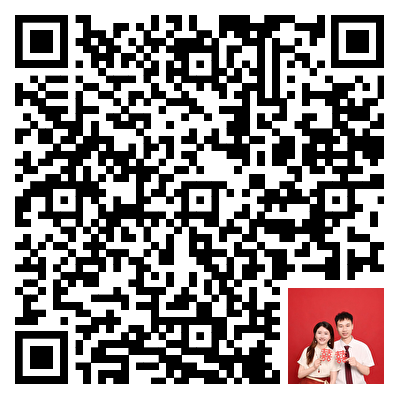
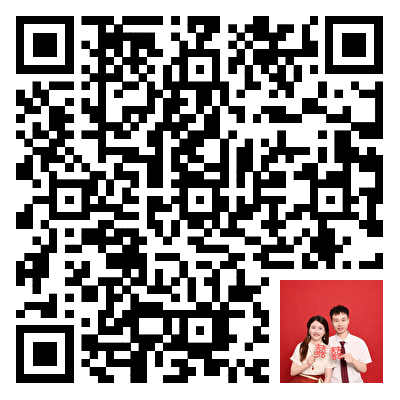
上传记录

diff --git a/yuanhui/zengsheng/project.md b/yuanhui/zengsheng/project.md
@@ -1,0 +1,8 @@
+部署位置
+https://dash.cloudflare.com/bc367327a8a598b4b93863bfb35d1eb0/pages/view/zengsheng-yuanhui-ourlove
+
+生产地址
+https://zengsheng-yuanhui-ourlove.pages.dev/index/index.html
+
+二维码生成地址
+https://cli.im/url?29397252894128350e7549b79b893a32
